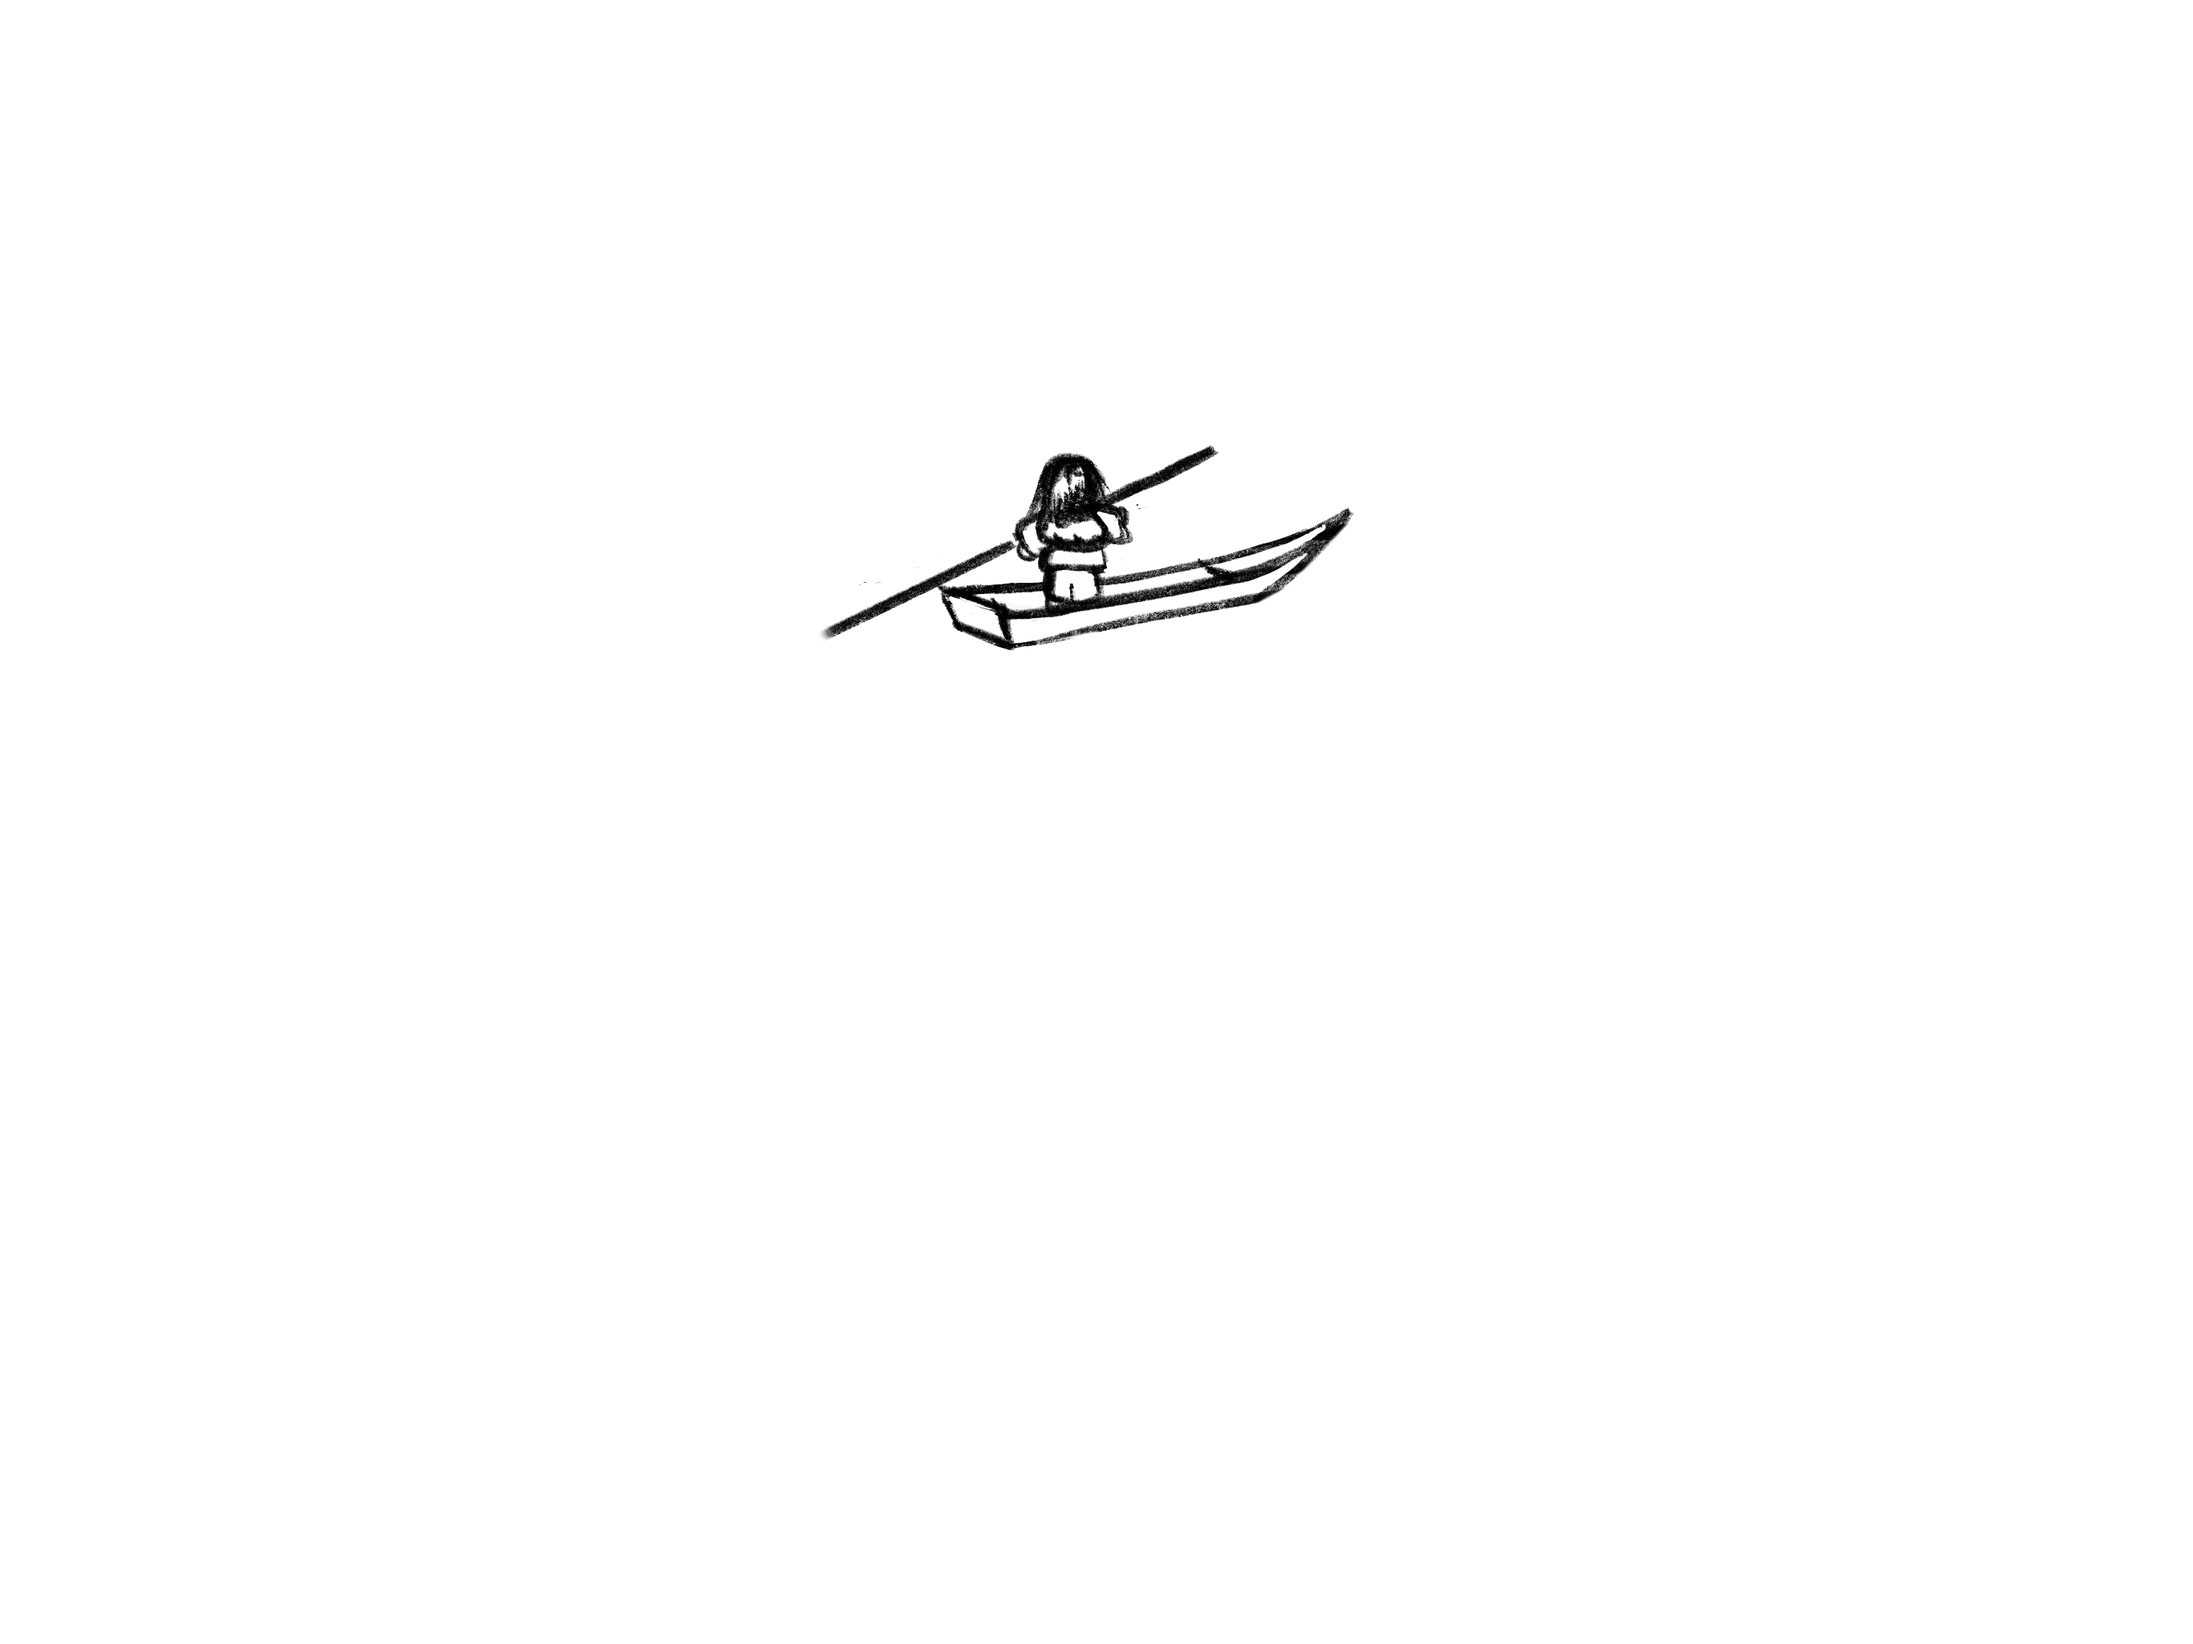
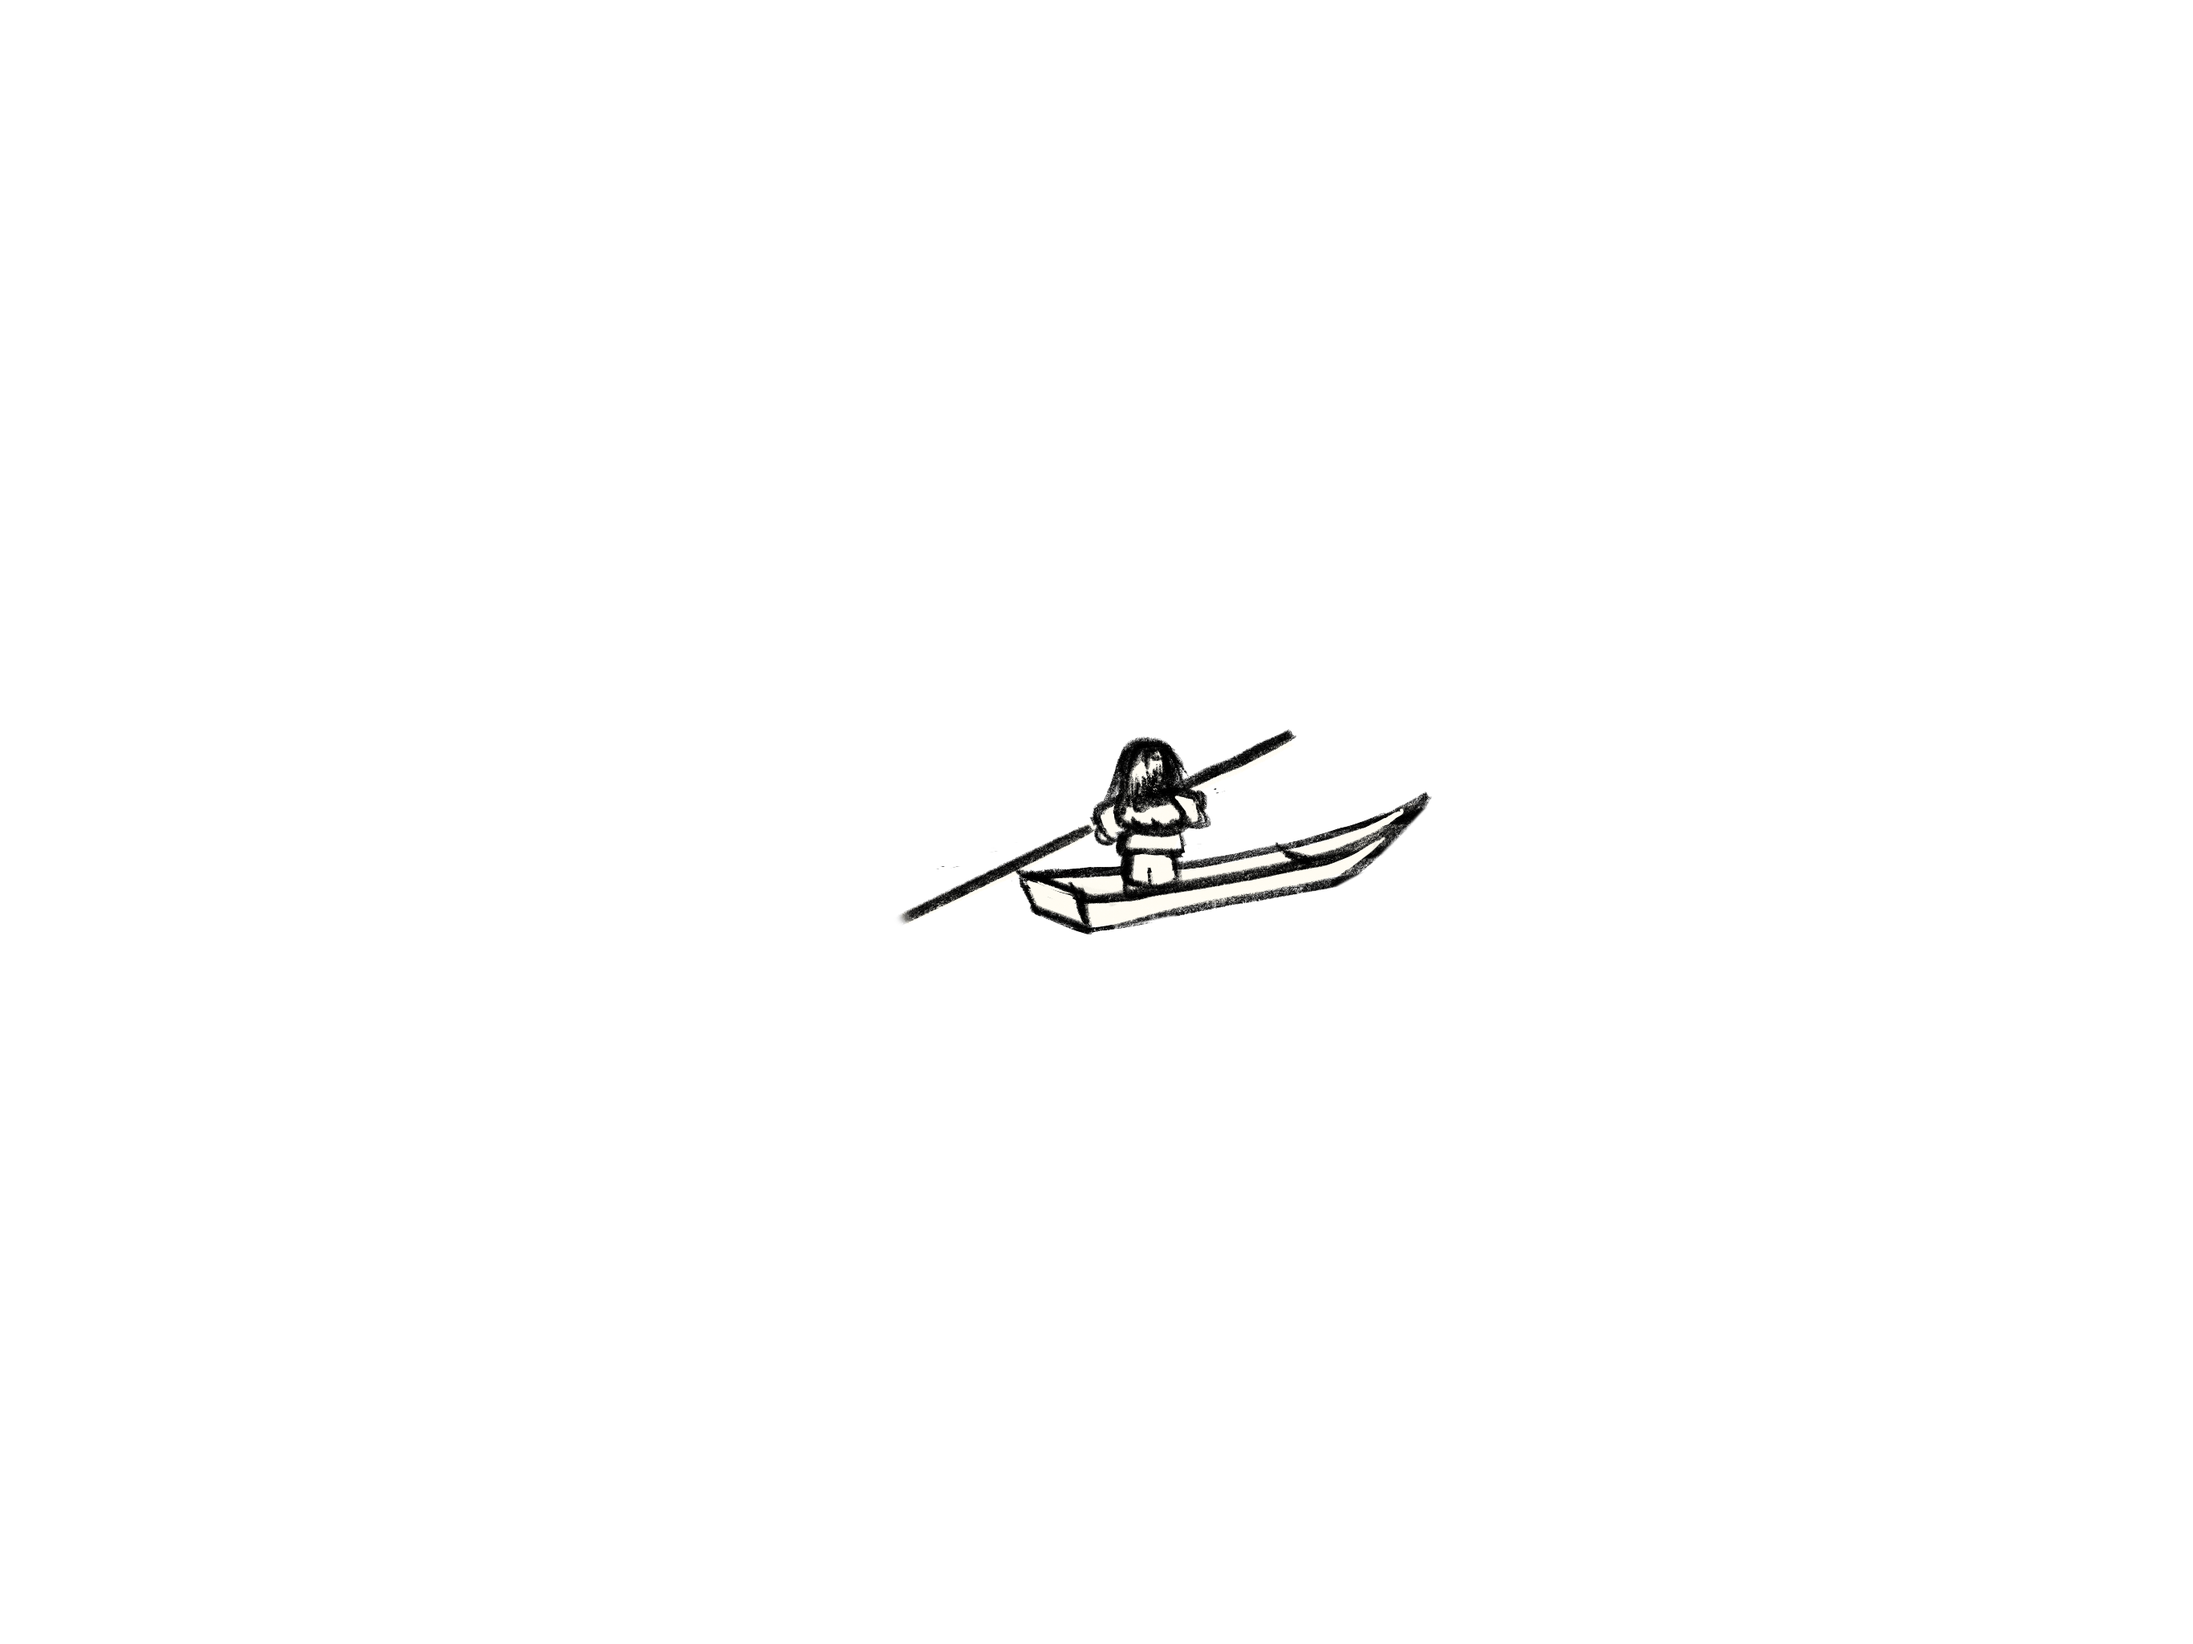
update js and css animations, update home interface

Changed region(s): [[0.4045, 0.4375, 0.6534, 0.5625], [0.4045, 0.25, 0.6223, 0.4062], [0.3734, 0.375, 0.4045, 0.4062]]

diff --git a/js/home.js b/js/home.js
@@ -27,6 +27,8 @@ const waterIcon = document.getElementById('water-icon');
 const earthIcon = document.getElementById('earth-icon');
 const airIcon = document.getElementById('air-icon');
 
+const elements = document.querySelector('.elements');
+
 
 
 
@@ -58,11 +60,12 @@ function draw(){
 		//circle interface
 		// context.strokeStyle = 'rgba(194,33,33,1)';
 		context.strokeStyle = 'rgba(0,0,0,1)';
-		context.lineWidth = 4;
+		context.lineWidth = 1;
 		context.beginPath();
 		context.ellipse(canvas.width/2, canvas.height/2, 200, 200,0, 0, 2 * Math.PI, false);
 		context.closePath();
 		context.stroke();
+
 }
 
 function load(){
@@ -93,14 +96,14 @@ function load(){
 
 function waterOn(){
 	requestAnimationFrame(waterOn);
-	waterIcon.style.transitionDuration = '0.7s';
+	waterIcon.style.transitionDuration = '0.5s';
 	waterIcon.style.opacity = '1';
-	fire.style.transitionDuration = '0.7s';
-	fire.style.opacity = '0.2';
-	earth.style.transitionDuration = '0.7s';
-	earth.style.opacity = '0.2';
-	air.style.transitionDuration = '0.7s';
-	air.style.opacity = '0.2';
+	fire.style.transitionDuration = '0.5s';
+	fire.style.opacity = '0.0';
+	earth.style.transitionDuration = '0.5s';
+	earth.style.opacity = '0.0';
+	air.style.transitionDuration = '0.5s';
+	air.style.opacity = '0.0';
 	
 }
 function waterOff(){
@@ -114,14 +117,14 @@ function waterOff(){
 
 function fireOn(){
 	requestAnimationFrame(fireOn);
-	fireIcon.style.transitionDuration = '0.7s';
+	fireIcon.style.transitionDuration = '0.5s';
 	fireIcon.style.opacity = '1';
-	water.style.transitionDuration = '0.7s';
-	water.style.opacity = '0.2';
-	earth.style.transitionDuration = '0.7s';
-	earth.style.opacity = '0.2';
-	air.style.transitionDuration = '0.7s';
-	air.style.opacity = '0.2';
+	water.style.transitionDuration = '0.5s';
+	water.style.opacity = '0.0';
+	earth.style.transitionDuration = '0.5s';
+	earth.style.opacity = '0.0';
+	air.style.transitionDuration = '0.5s';
+	air.style.opacity = '0.0';
 	
 }
 function fireOff(){
@@ -134,14 +137,14 @@ function fireOff(){
 
 function earthOn(){
 	requestAnimationFrame(earthOn);
-	earthIcon.style.transitionDuration = '0.7s';
+	earthIcon.style.transitionDuration = '0.5s';
 	earthIcon.style.opacity = '1';
-	fire.style.transitionDuration = '0.7s';
-	fire.style.opacity = '0.2';
-	water.style.transitionDuration = '0.7s';
-	water.style.opacity = '0.2';
-	air.style.transitionDuration = '0.7s';
-	air.style.opacity = '0.2';
+	fire.style.transitionDuration = '0.5s';
+	fire.style.opacity = '0.0';
+	water.style.transitionDuration = '0.5s';
+	water.style.opacity = '0.0';
+	air.style.transitionDuration = '0.5s';
+	air.style.opacity = '0.0';
 	
 }
 function earthOff(){
@@ -154,14 +157,14 @@ function earthOff(){
 
 function airOn(){
 	requestAnimationFrame(airOn);
-	airIcon.style.transitionDuration = '0.7s';
+	airIcon.style.transitionDuration = '0.5s';
 	airIcon.style.opacity = '1';
-	fire.style.transitionDuration = '0.7s';
-	fire.style.opacity = '0.2';
-	water.style.transitionDuration = '0.7s';
-	water.style.opacity = '0.2';
-	earth.style.transitionDuration = '0.7s';
-	earth.style.opacity = '0.2';
+	fire.style.transitionDuration = '0.5s';
+	fire.style.opacity = '0.0';
+	water.style.transitionDuration = '0.5s';
+	water.style.opacity = '0.0';
+	earth.style.transitionDuration = '0.5s';
+	earth.style.opacity = '0.0';
 	
 }
 function airOff(){
@@ -174,6 +177,30 @@ function airOff(){
 }
 
 
+function hoverPause(){
+	fire.style.animationPlayState = "paused";
+	earth.style.animationPlayState = "paused";
+	water.style.animationPlayState = "paused";
+	air.style.animationPlayState = "paused";
+	elements.style.animationPlayState = "paused";
+}
+
+function hoverPlay(){
+	fire.style.animationPlayState = "running";
+	earth.style.animationPlayState = "running";
+	water.style.animationPlayState = "running";
+	air.style.animationPlayState = "running";
+	elements.style.animationPlayState = "running";
+}
+
+fire.addEventListener('mouseenter', hoverPause);
+fire.addEventListener('mouseleave', hoverPlay);
+earth.addEventListener('mouseenter', hoverPause);
+earth.addEventListener('mouseleave', hoverPlay);
+water.addEventListener('mouseenter', hoverPause);
+water.addEventListener('mouseleave', hoverPlay);
+air.addEventListener('mouseenter', hoverPause);
+air.addEventListener('mouseleave', hoverPlay);
 
 window.addEventListener('load', setup);
 window.requestAnimationFrame(load);

diff --git a/css/air.css b/css/air.css
@@ -44,9 +44,9 @@ svg{
 
 .fullTree {background-image:url('../media/fullTree.png');} 
 .branches {background-image:url('../media/branches.png');} 
-.petal1 {background-image:url('../media/petal1.png');} 
-.petal2 {background-image:url('../media/petal2.png');}
-.petal3 {background-image:url('../media/petal3.png');}
+.petal1 {background-image:url('../media/petals1.png');} 
+.petal2 {background-image:url('../media/petals2.png');}
+.petal3 {background-image:url('../media/petals3.png');}
 .swing {background-image:url('../media/swing.png');}
 .air {background-image:url('../media/air.svg');}
 
@@ -90,6 +90,55 @@ svg{
 
 .branches{
 	transform-origin: center center;
+}
+
+.petal1{
+	 transition-property: transform;
+	animation: fly 5s infinite;
+}
+
+.petal2{
+transition-property: transform;
+	animation: fly2 5s infinite;
+}
+
+.petal3{
+	transition-property: transform;
+	animation: fly3 5s infinite;
+}
+
+@keyframes fly{
+	from{
+		transform: translateX(0px) translateY(0px);
+		opacity: 1;
+	}
+	to{
+		transform: translateX(500px)translateY(-500px);
+		opacity: 0;
+	}
+}
+
+@keyframes fly2{
+	from{
+		transform: translateX(0px) translateY(0px);
+		opacity: 1;
+	}
+	to{
+		transform: translateX(550px)translateY(-300px);
+		opacity: 0;
+	}
+}
+@keyframes fly3{
+	from{
+		transform: translateX(0px) translateY(0px);
+		opacity: 1;
+	}
+
+	
+	to{
+		transform: translateX(600px)translateY(-400px);
+		opacity: 0;
+	}
 }
 
 #chop{

diff --git a/css/home.css b/css/home.css
@@ -23,37 +23,51 @@ canvas{
     height:400px;
     width:400px;
     border-radius: 100%;
+    animation: circle 15s linear infinite;
+    animation-delay: 3.2s;
 }
+.elements:hover{
+animation-play-state:paused;
 
+}
 
 img{
 	width:100px;
 	height:auto;
 }
 
+#fire, #water, #earth, #air{
+	animation: inner 15s linear infinite;
+	 animation-delay: 3.2s;
+}
+
+#fire:hover, #water:hover, #earth:hover, #air:hover{
+	 animation-play-state:paused;
+}
+
 #water{
 	position: absolute;
 	opacity:0;
-	top:0;
+	top:20px;
 	left:150px;
 }
 #earth{
 	position: absolute;
 	opacity:0;
 	top:150px;
-	right:0px;
+	right:20px;
 }
 #fire{
 	position: absolute;
 	opacity:0;
-	bottom:0;
+	bottom:20px;
 	left:150px;
 }
 #air{
 	position: absolute;
 	opacity:0;
 	top:150px;
-	left:0px;
+	left:20px;
 }
 
 #water-icon{
@@ -76,6 +90,17 @@ img{
 	opacity: 0;
 	z-index:1003;
 }
+
+@keyframes circle {
+    from { transform:rotate(0deg); }
+    to { transform:rotate(360deg); }
+}
+
+@keyframes inner {
+    from { transform:rotate(0deg); }
+    to { transform:rotate(-360deg); }
+}
+
 
 #chop{
 	position: fixed;

diff --git a/js/air.js b/js/air.js
@@ -17,8 +17,11 @@ let rotation = 0.1;
 
 //swing variable
 const swing = document.querySelector('.swing');
+const swingContainer = document.querySelector('.swing-image');
 let swingRotate = 0;
 let swingRate = -0.3;
+let swingYnew = 0.5;
+let swingY = 0.5;
 
 //petal variables
 const petal1 = document.querySelector('.petal1');
@@ -53,18 +56,28 @@ context.drawImage(image, 0, 0, width, height);
 
 function sway(){
 
-    rotateBranches += rotation
+    rotateBranches += rotation;
+    swingRotate += swingRate;
+    swingYnew += swingY;
+
+
     branches.style.transform = 'rotateZ(' + rotateBranches + 'deg)';
-    swing.style.transform = 'rotateZ(' + (rotateBranches * -1) + 'deg)';
+    swing.style.transform = 'rotateZ(' + swingRotate + 'deg)';
+    swingContainer.style.transform = 'translateY(' + swingYnew + 'px)';
+
     if(rotateBranches < -5 || rotateBranches > 10) {
         rotation *= -1;
+        swingRate *= -1;
+        swingY *= -1;
     }
+
+
 
     requestAnimationFrame(sway);
 }
 
 function fly(){
-    
+
 }
 
 

diff --git a/js/water.js b/js/water.js
@@ -18,10 +18,14 @@ const leftWave = document.querySelector('.waveL-image');
 //person variables
 const person = document.querySelector('.person-image');
 let yPos = 0;
-let yChange = 1;
+let yChange = 0.5;
+// const boat = document.querySelector('.person');
+let xPos = 0;
+let xChange = 0.5;
 
 let width;
 let height;
+
 
 //wave variables
 const wave1 = document.querySelector('.image1');
@@ -91,17 +95,22 @@ requestAnimationFrame(crash);
 }
 
 function float(){
-    yPos += yChange; 
-    person.style.transform = 'translateY(' + yPos + 'px)';
 
-if(yPos > 70 || yPos <= 0){
+    yPos += yChange; 
+    xPos += xChange; 
+    person.style.transform = 'translateY(' + yPos + 'px) translateX(' + xPos + 'px)';
+    // boat.style.transform = 'translateX(' + xPos + 'px)';
+
+if(yPos > 50 || yPos < 0){
     yChange *= -1;
+  }
+  if(xPos > 20 || xPos < -20){
+    xChange *= -1;
   }
 
 requestAnimationFrame(float);
 
 }
-
 
 
 

diff --git a/index.html b/index.html
@@ -12,10 +12,10 @@
 		<a href="earth.html"><img src="media/earth.png" alt="earth chinese character" id="earth"></a>
 		<a href="air.html"><img src="media/air.png" alt="air chinese character" id="air">
 	</div></a>
-		<img src="media/fire-icon.png" alt="fire chinese character" id="fire-icon">
-		<img src="media/water-icon.png" alt="water chinese character" id="water-icon">
-		<img src="media/earth-icon.png" alt="earth chinese character" id="earth-icon">
-		<img src="media/air-icon.png" alt="air chinese character" id="air-icon">
+		<img src="media/fire-icon.png" alt="fire" id="fire-icon">
+		<img src="media/water-icon.png" alt="water" id="water-icon">
+		<img src="media/earth-icon.png" alt="earth" id="earth-icon">
+		<img src="media/air-icon.png" alt="air" id="air-icon">
 	<canvas id="background">
 		<div style="display: none;">
 			<img src="media/rice-paper.jpg" id="paper">

diff --git a/css/water.css b/css/water.css
@@ -29,7 +29,7 @@ canvas{
 .waveR{background-image:url('../media/wavesR.png');}
 .waveL{background-image:url('../media/wavesL.png');}
 
-.person{background-image:url('../media/water-person.png');}
+.person{background-image:url('../media/boat.png');}
 
 .waves1,.waves2,.waves3,.waves4,.waves5,.waves6,.waves7,.waves8,.waves9,.waves10, .waves11, .waves12, .waveR, .waveL, .person, .fullWaves{
 	opacity: 0.9;
